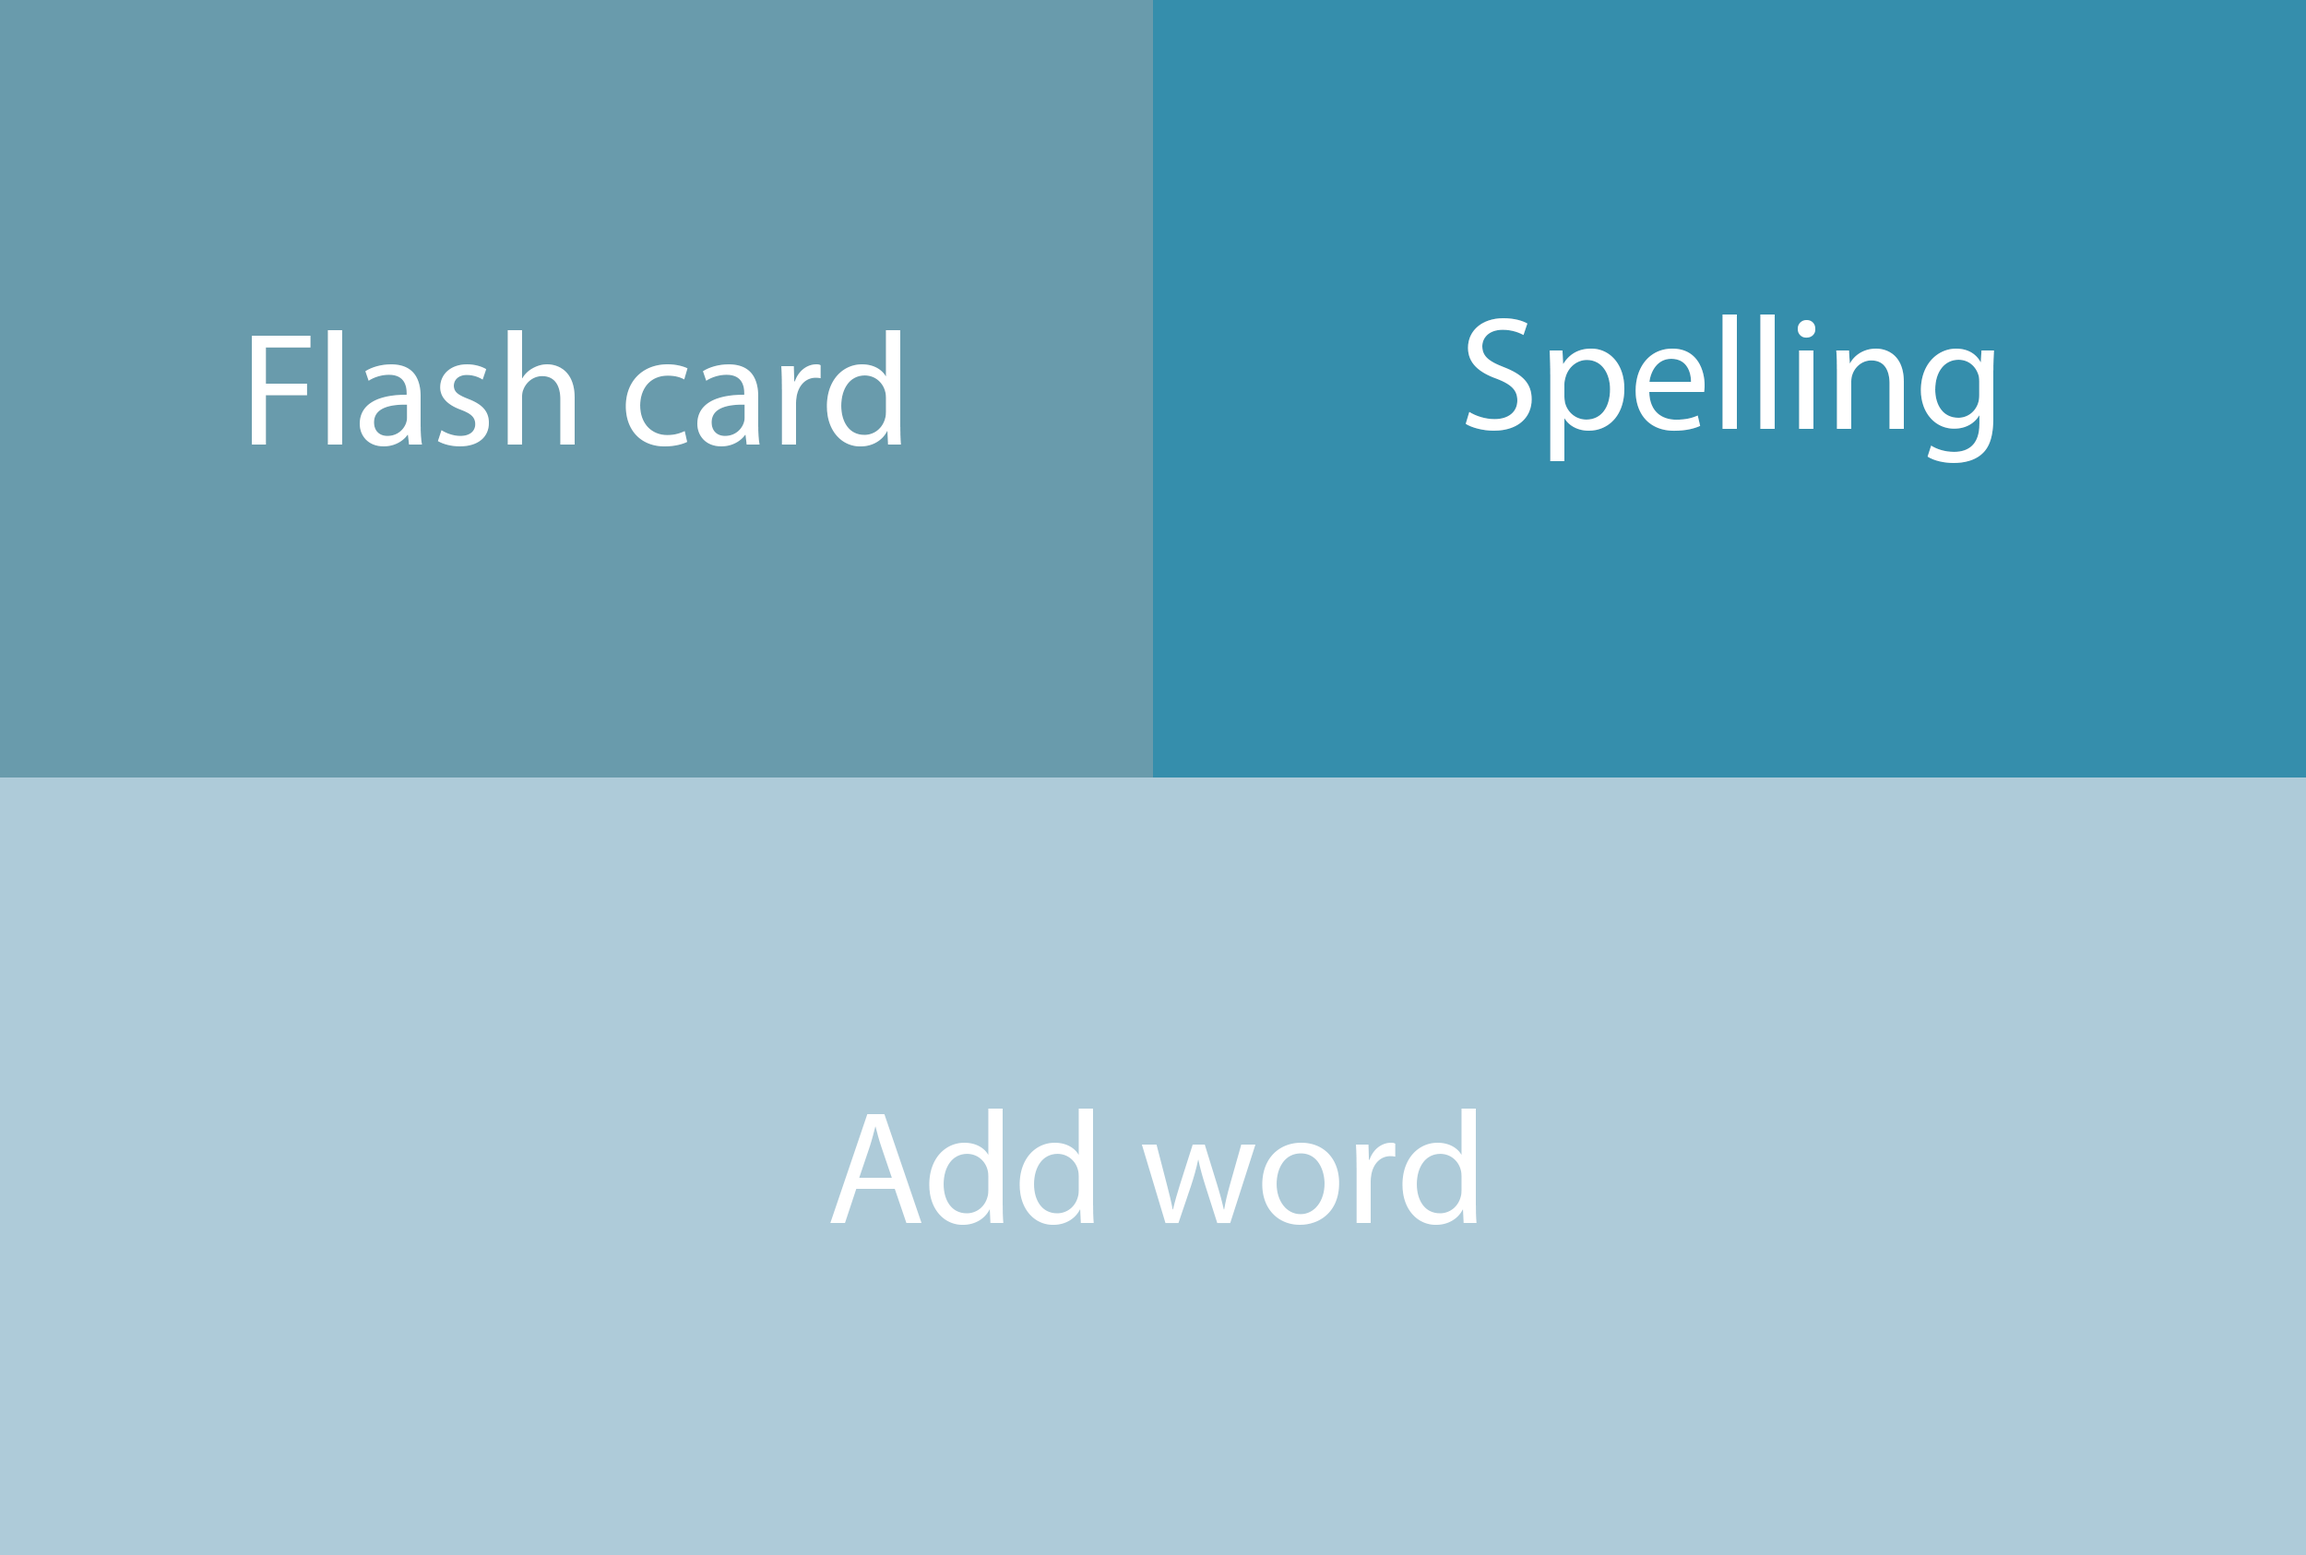
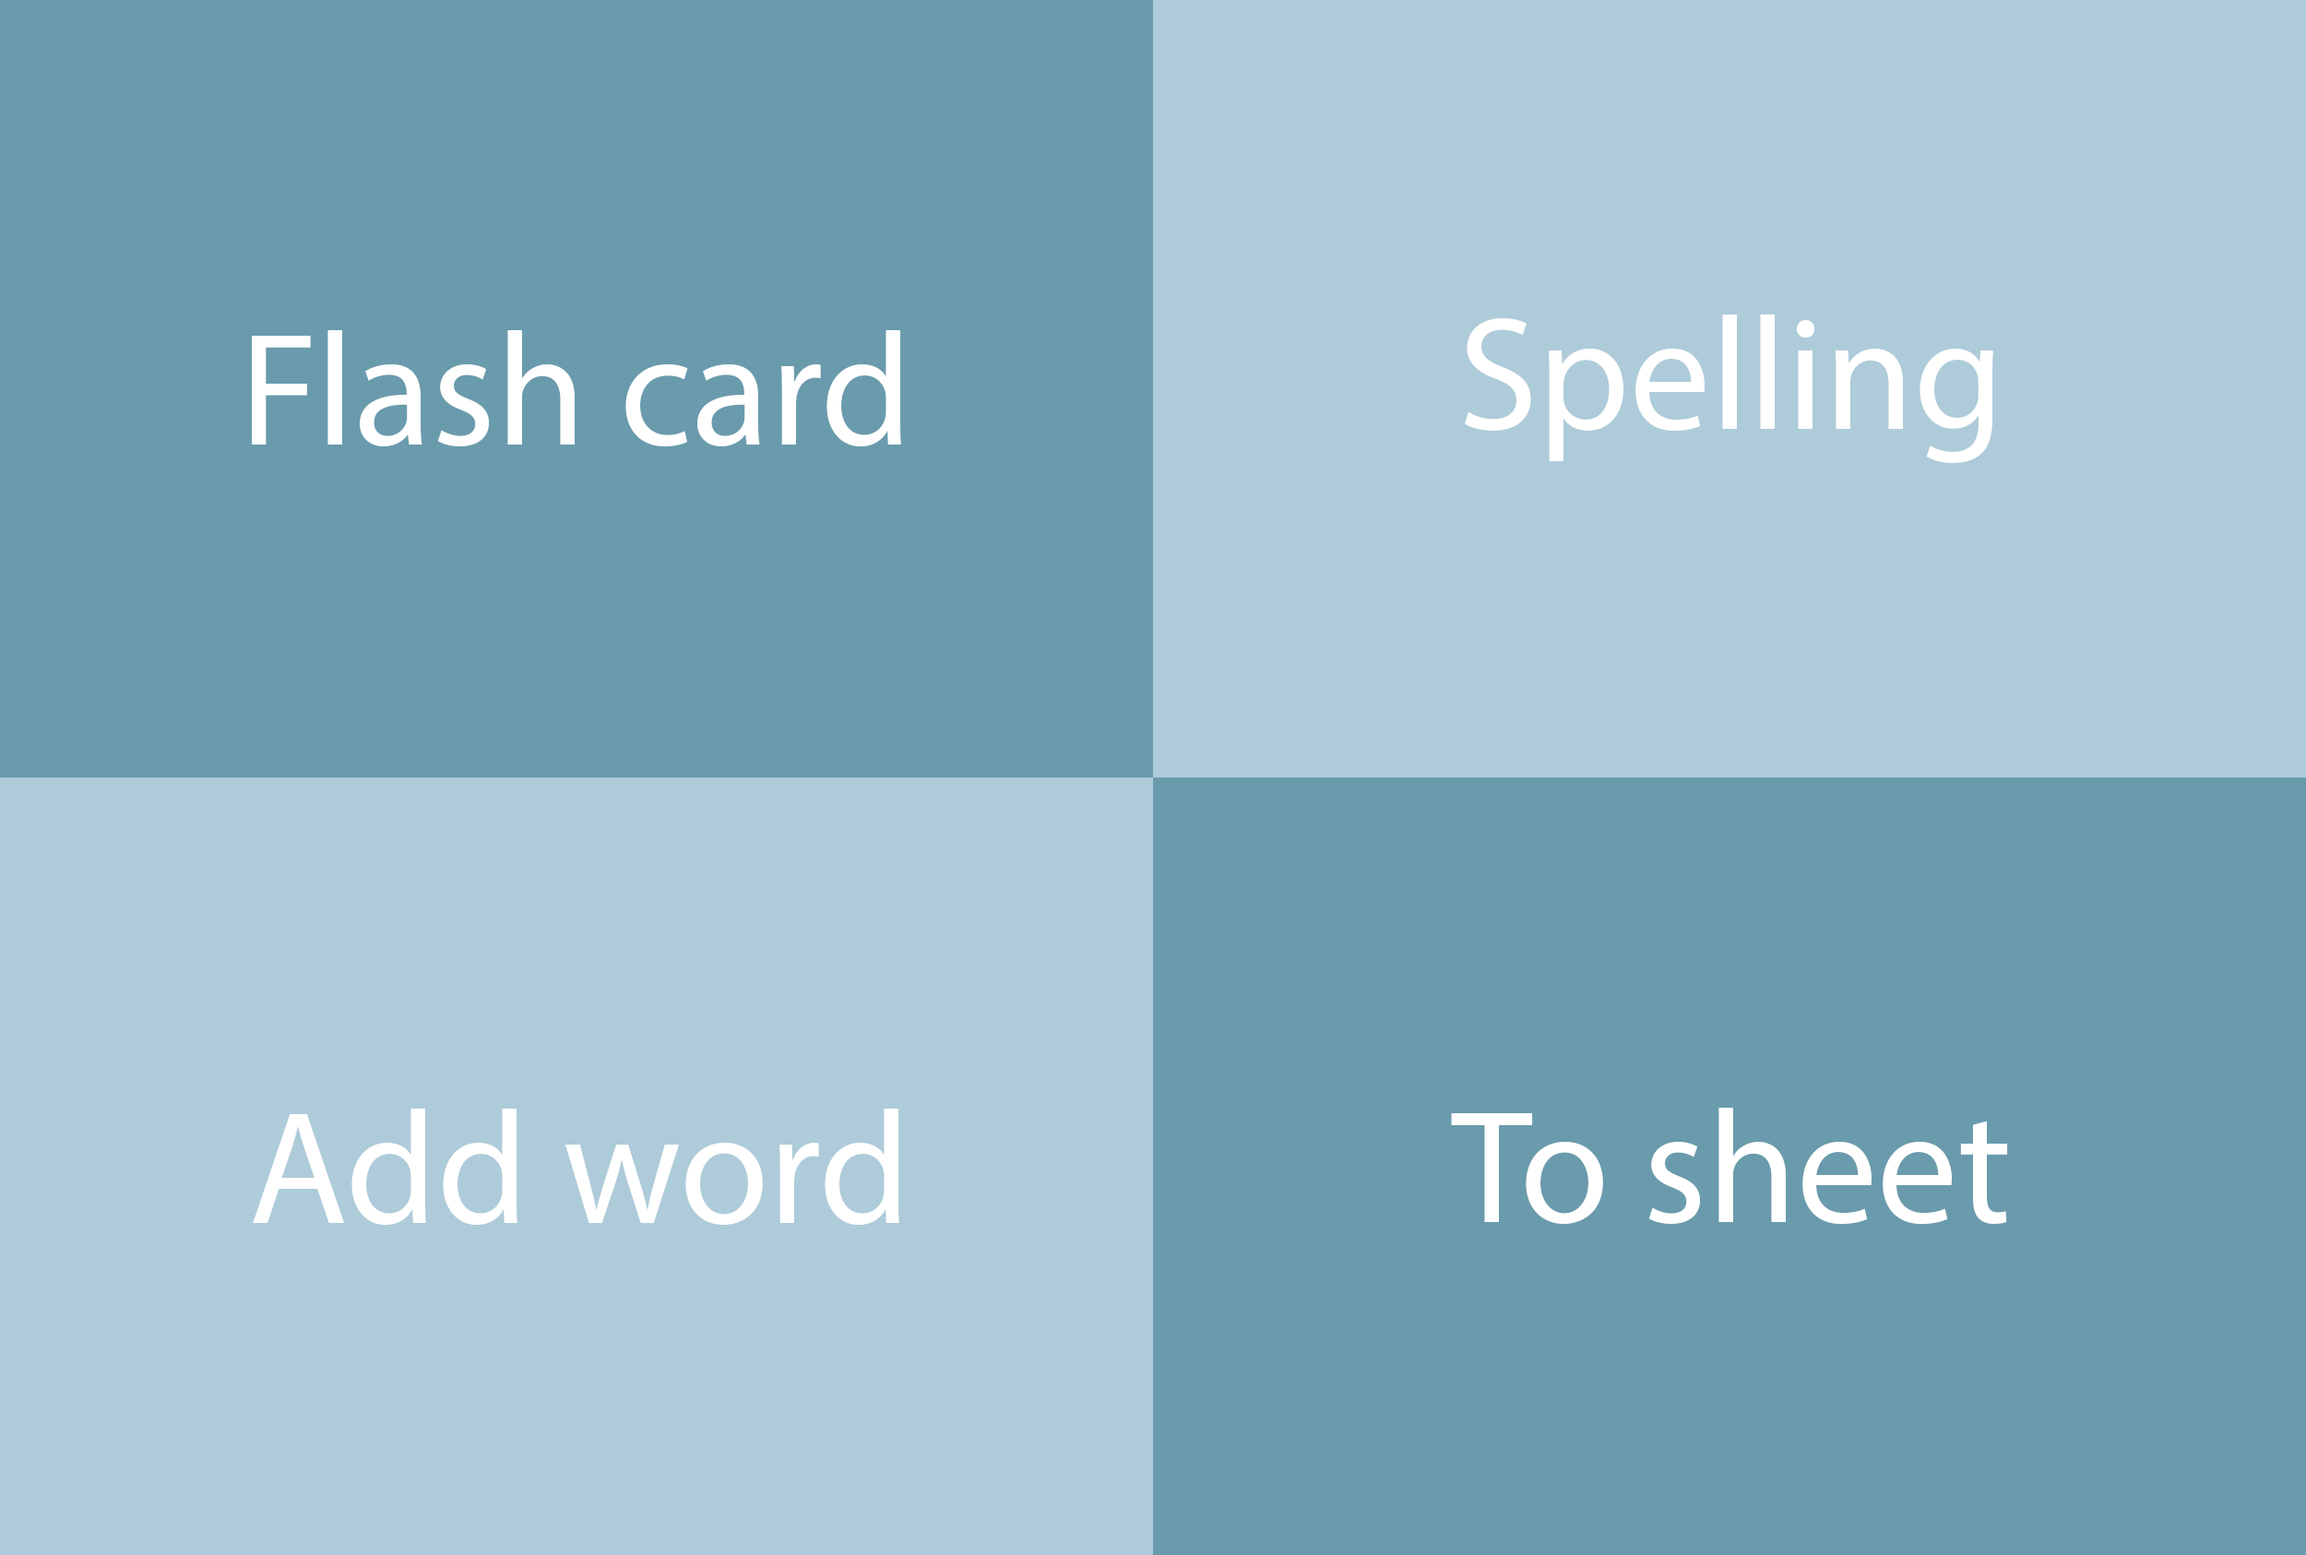
gf

diff --git a/app.py b/app.py
@@ -1,4 +1,6 @@
-from crypt import methods
+from argparse import ArgumentParser
+from re import A
+
 from flask import Flask, request, abort
 from linebot import (
     LineBotApi, WebhookHandler
@@ -7,16 +9,24 @@ from linebot.exceptions import (
     InvalidSignatureError
 )
 from linebot.models import (
-    MessageEvent, TextMessage, TextSendMessage, FlexSendMessage,
-    URIAction, ImageComponent, BubbleContainer
+    MessageEvent, TextMessage, TextSendMessage, 
+    PostbackEvent, FlexSendMessage,
 )
 
-from Constants import getChannelToken, getChannelSecret,getFlexMessage
+from Constants import (
+    getChannelToken, getChannelSecret,getFlexMessage,
+    getData,update_data,add_word
+)
 
 app = Flask(__name__)
 
 line_bot_api = LineBotApi(getChannelToken())
 handler = WebhookHandler(getChannelSecret())
+FLASHCARD_ORDER, SPELLING_ORDER = 0,0
+FLEX = getFlexMessage()
+DATA_FLASHCARD, DATA_SPELLING = getData()
+ADDWORD = False
+SPELLING = False
 
 @app.route('/')
 def hello():
@@ -42,14 +52,97 @@ def callback():
 
 @handler.add(MessageEvent, message=TextMessage)
 def handle_message(event):
-    line_bot_api.reply_message(
-            event.reply_token,
-            TextSendMessage(text=str(event)))
+    global SPELLING_ORDER, SPELLING
+    if (event.message.text == (DATA_SPELLING['korean'][SPELLING_ORDER]) and SPELLING):
+        update_data(DATA_SPELLING['thai'][SPELLING_ORDER], True, "spelling")
+        if SPELLING_ORDER + 1 < len(DATA_SPELLING['korean']):
+            SPELLING_ORDER += 1
+        else:
+            SPELLING_ORDER = 0
+        line_bot_api.reply_message(
+                event.reply_token,
+                TextSendMessage("SPELLING: "+DATA_SPELLING['thai'][SPELLING_ORDER]))
+    elif (event.message.text != (DATA_SPELLING['korean'][SPELLING_ORDER]) and SPELLING):
+        update_data(DATA_SPELLING['thai'][SPELLING_ORDER], False, "spelling")
+        if SPELLING_ORDER + 1 < len(DATA_SPELLING['korean']):
+            SPELLING_ORDER += 1
+        else:
+            SPELLING_ORDER = 0
+        line_bot_api.reply_message(
+                event.reply_token,
+                [TextSendMessage("CORRECT ANS: " + DATA_SPELLING['thai'][SPELLING_ORDER-1]),
+                TextSendMessage("SPELLING: "+DATA_SPELLING['thai'][SPELLING_ORDER])])
+    elif ADDWORD:
+        if SPELLING:
+            SPELLING = False
+        new_word = event.message.text.split(":")
+        add_word(new_word[0].rstrip().lstrip(), new_word[1].rstrip().lstrip())
+    
 
+@handler.add(PostbackEvent)
+def handle_event(event):
+    global FLASHCARD_ORDER,SPELLING, SPELLING_ORDER, ADDWORD
+    if (event.postback.data == ('flash_card')):
+        if SPELLING or ADDWORD:
+            SPELLING = False
+            ADDWORD = False
+        FLASHCARD_ORDER = 0
+        FLEX['body']['contents'][0]['text'] = DATA_FLASHCARD['korean'][FLASHCARD_ORDER]
+        line_bot_api.reply_message(
+            event.reply_token,
+            FlexSendMessage(alt_text="flash card",contents=FLEX))
+    elif (event.postback.data == ('know')):
+        update_data(DATA_FLASHCARD['korean'][FLASHCARD_ORDER], True, "flashcard")
+        if FLASHCARD_ORDER + 1 < len(DATA_FLASHCARD['korean']):
+            FLASHCARD_ORDER += 1
+        else:
+            FLASHCARD_ORDER = 0
+        FLEX['body']['contents'][0]['text'] = DATA_FLASHCARD['korean'][FLASHCARD_ORDER]
+        line_bot_api.reply_message(
+            event.reply_token,
+            [TextSendMessage(text=DATA_FLASHCARD['thai'][FLASHCARD_ORDER-1]),
+            FlexSendMessage(alt_text="flash card",contents=FLEX)])
+    elif (event.postback.data == ('dont know')):
+        update_data(DATA_FLASHCARD['korean'][FLASHCARD_ORDER], False,"flashcard")
+        if FLASHCARD_ORDER + 1 < len(DATA_FLASHCARD['korean']):
+            FLASHCARD_ORDER += 1
+        else:
+            FLASHCARD_ORDER = 0
+        FLEX['body']['contents'][0]['text'] = DATA_FLASHCARD['korean'][FLASHCARD_ORDER]
+        line_bot_api.reply_message(
+            event.reply_token,
+            [TextSendMessage(text=DATA_FLASHCARD['thai'][FLASHCARD_ORDER-1]),
+            FlexSendMessage(alt_text="flash card",contents=FLEX)])
+    elif (event.postback.data == ('spelling')):
+        SPELLING_ORDER = 0
+        SPELLING = not SPELLING
+        if ADDWORD:
+            ADDWORD = False
+        if SPELLING:
+            line_bot_api.reply_message(
+                event.reply_token,
+                TextSendMessage(text="SPELLING: " + DATA_SPELLING['thai'][SPELLING_ORDER]))
+        else:
+            line_bot_api.reply_message(
+                event.reply_token,
+                TextSendMessage(text="SPELLING: False"))
+
+    elif (event.postback.data == ('add_word')):
+        ADDWORD = not ADDWORD
+        line_bot_api.reply_message(
+            event.reply_token,
+            TextSendMessage(text=f"ADD WORD: {ADDWORD}"))
 
         
 if __name__ == "__main__":
-    app.run(debug=False)
+    arg_parser = ArgumentParser(
+        usage='Usage: python ' + __file__ + ' [--port <port>] [--help]'
+    )
+    arg_parser.add_argument('-p', '--port', default=8000, help='port')
+    arg_parser.add_argument('-d', '--debug', default=False, help='debug')
+    options = arg_parser.parse_args()
+
+    app.run(debug=options.debug, port=options.port)
 
 
 

diff --git a/rich_menu.py b/rich_menu.py
@@ -60,7 +60,7 @@ def rich_menu_object_json():
                 "bounds": {
                     "x": 0,
                     "y": 844,
-                    "width": 2500,
+                    "width": 1250,
                     "height": 843
                 },
                 "action": {
@@ -68,65 +68,29 @@ def rich_menu_object_json():
                     "label": "add_word",
                     "data": "add_word"
                 }
-            }
-        ]
-    }
-
-def rich_menu_object_flashcard_json():
-    return {
-        "size": {
-            "width": 2500,
-            "height": 1686
-        },
-        "selected": False,
-        "name": "richmenu",
-        "chatBarText": "Tap to open",
-        "areas": [
-            {
-                "bounds": {
-                    "x": 0,
-                    "y": 0,
-                    "width": 1250,
-                    "height": 843
-                },
-                "action": {
-                    "type": "postback",
-                    "label": "dont_know",
-                    "data": "dont_know"
-                }
             },
             {
                 "bounds": {
                     "x": 1251,
-                    "y": 0,
+                    "y": 844,
                     "width": 1250,
                     "height": 843
                 },
                 "action": {
-                    "type": "postback",
-                    "label": "know",
-                    "data": "know"
-                }
-            },
-            {
-                "bounds": {
-                    "x": 0,
-                    "y": 844,
-                    "width": 2500,
-                    "height": 843
-                },
-                "action": {
-                    "type": "postback",
-                    "label": "next_word",
-                    "data": "next_word"
+                    "type": "uri",
+                    "uri" : "https://docs.google.com/spreadsheets/d/1LtB3sGdzdls2nrckWJTGu-bj69vM-7nVqjobDNAnVNQ/edit?usp=sharing"
                 }
             }
         ]
     }
 
 
+
 def create_action(action):
-    return PostbackAction(label=action['label'], data=action['data'], text="finished")
+    if action['type'] == 'uri':
+        return URIAction(type=action['type'], uri=action.get('uri'))
+    else:
+        return PostbackAction(label=action['label'], data=action['data'])
 
 
 
@@ -158,33 +122,6 @@ def main():
     with open('./image/richmenu.png', 'rb') as f:
         line_bot_api.set_rich_menu_image(rich_menu_id, 'image/png', f)
 
-    # # create rich menu flash card
-    rich_menu_flashcard_object = rich_menu_object_flashcard_json()
-    areas = [
-        RichMenuArea(
-            bounds=RichMenuBounds(
-                x=info['bounds']['x'],
-                y=info['bounds']['y'],
-                width=info['bounds']['width'],
-                height=info['bounds']['height']
-            ),
-            action=create_action(info['action'])
-        ) for info in rich_menu_flashcard_object['areas']
-    ]
-
-    rich_menu_to_a_create = RichMenu(
-        size=RichMenuSize(width=rich_menu_flashcard_object['size']['width'], height=rich_menu_flashcard_object['size']['height']),
-        selected=rich_menu_flashcard_object['selected'],
-        name=rich_menu_flashcard_object['name'],
-        chat_bar_text=rich_menu_flashcard_object['name'],
-        areas=areas
-    )
-
-    rich_menu_flashcard_id = line_bot_api.create_rich_menu(rich_menu=rich_menu_to_a_create)
-
-    with open('./image/richmenu-flashcard.png', 'rb') as f:
-        line_bot_api.set_rich_menu_image(rich_menu_flashcard_id, 'image/png', f)
-
     # 6. Set rich menu A as the default rich menu
     line_bot_api.set_default_rich_menu(rich_menu_id)
 
@@ -194,16 +131,6 @@ def main():
         rich_menu_id=rich_menu_id
     )
     line_bot_api.create_rich_menu_alias(alias)
-
-    # Create rich menu alias flashcard
-    alias = RichMenuAlias(
-        rich_menu_alias_id='richmenu-flashcard',
-        rich_menu_id=rich_menu_flashcard_id
-    )
-    line_bot_api.create_rich_menu_alias(alias)
-
-
-
 
     print("SYSTEM: finished")
 

diff --git a/Constants/spreadsheet.py b/Constants/spreadsheet.py
@@ -1,0 +1,41 @@
+from operator import index
+import gspread
+import pandas as pd
+from oauth2client.service_account import ServiceAccountCredentials
+
+scope = ['https://spreadsheets.google.com/feeds','https://www.googleapis.com/auth/drive']
+
+# add credentials to the account
+creds = ServiceAccountCredentials.from_json_keyfile_name('jsonfile/alert-brook-361418-d95992f17aaf.json', scope)
+
+# authorize the clientsheet 
+client = gspread.authorize(creds)
+
+sheet = client.open('Korean')
+sheet_instance = sheet.get_worksheet(0)
+
+def getData():
+    records_data = sheet_instance.get_all_records()
+    records_df = pd.DataFrame.from_dict(records_data).sort_values(by=['correct_flashcard'])
+    flashcard_data = records_df.to_dict(orient='list')
+    records_df = pd.DataFrame.from_dict(records_data).sort_values(by=['correct_spelling'])
+    spelling_data = records_df.to_dict(orient='list')
+    
+    return flashcard_data, spelling_data
+
+def update_data(word, correct, type):
+    cell = sheet_instance.find(word)
+
+    if type == "flashcard":
+        col = 3
+    elif type == "spelling":
+        col = 4
+
+    if correct:
+        x = int(sheet_instance.cell(cell.row, col).value) + 1
+    elif not correct:
+        x = int(sheet_instance.cell(cell.row, col).value) - 1
+    sheet_instance.update_cell(cell.row, col, x)
+
+def add_word(korean, thai):
+    sheet_instance.insert_row([korean, thai, 0, 0], index=2)

diff --git a/Constants/FlexMessage.py b/Constants/FlexMessage.py
@@ -22,33 +22,26 @@ def getFlexMessage():
       {
         "type": "button",
         "style": "primary",
-        "height": "sm",
+        "height": "md",
         "action": {
           "type": "postback",
-          "label": "one",
-          "data": "hello"
+          "label": "know",
+          "data": "know"
         }
       },
       {
         "type": "button",
         "action": {
           "type": "postback",
-          "label": "two",
-          "data": "hello"
+          "label": "don't know",
+          "data": "dont know"
         },
-        "style": "secondary"
-      },
-      {
-        "type": "button",
-        "action": {
-          "type": "postback",
-          "label": "three",
-          "data": "hello"
-        },
-        "style": "primary"
+        "style": "primary",
+        "height": "md"
       }
     ],
     "flex": 0
   }
 }
     return flex
+

diff --git a/Constants/__init__.py b/Constants/__init__.py
@@ -1,2 +1,3 @@
 from .ChannelCode import getChannelSecret, getChannelToken
 from .FlexMessage import getFlexMessage
+from .spreadsheet import getData,update_data,add_word
